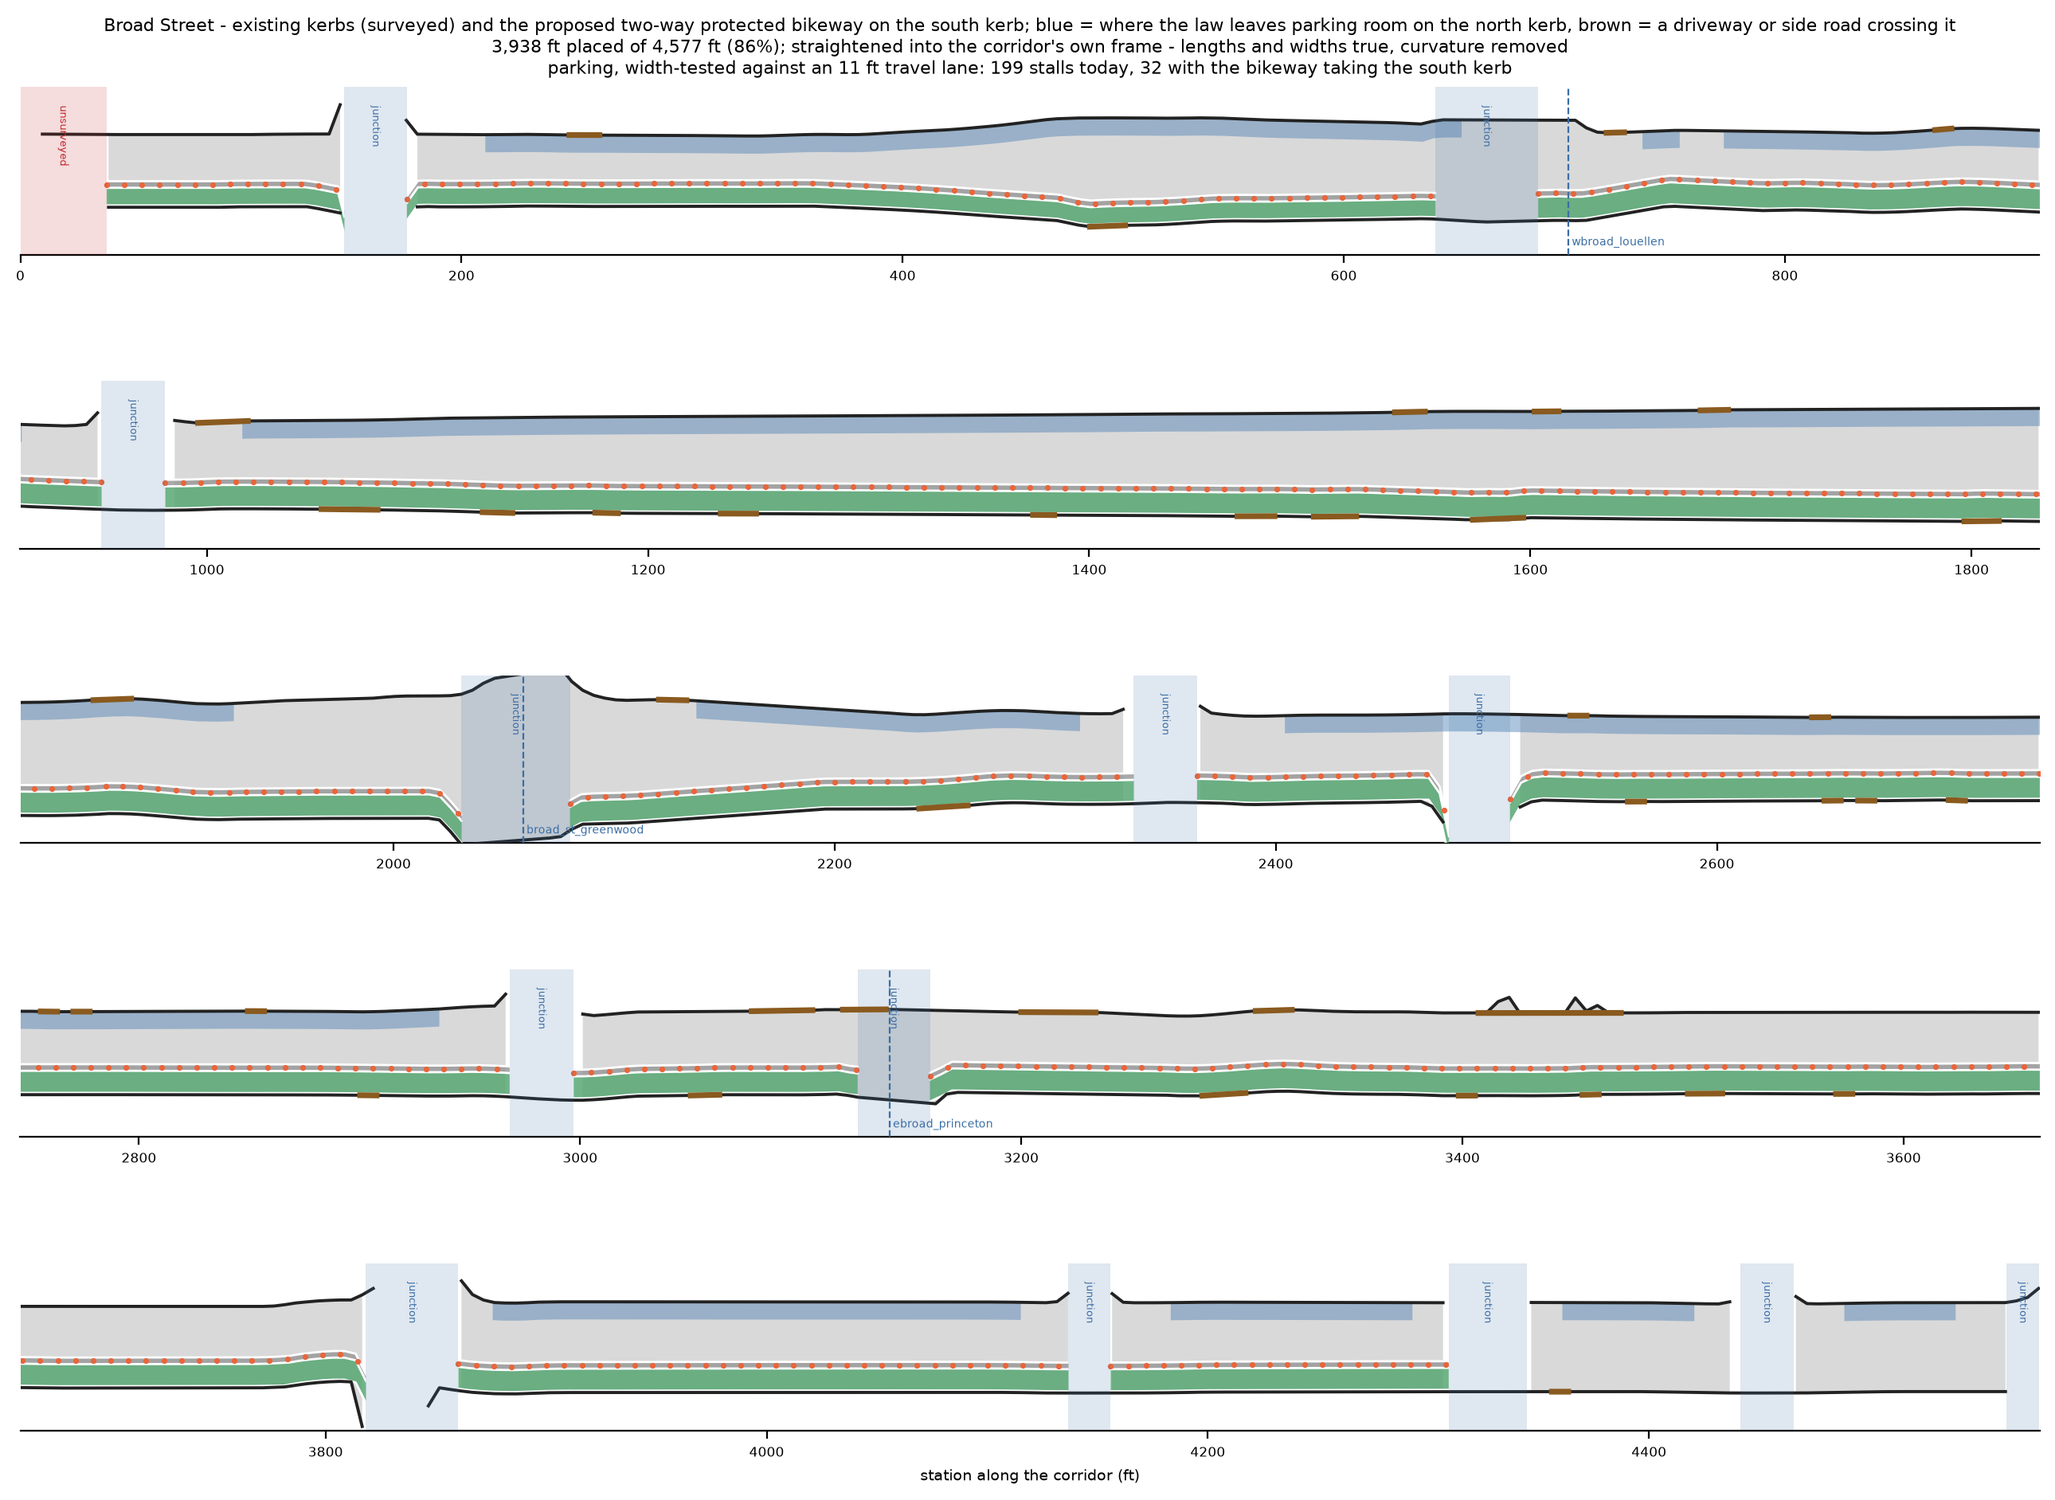
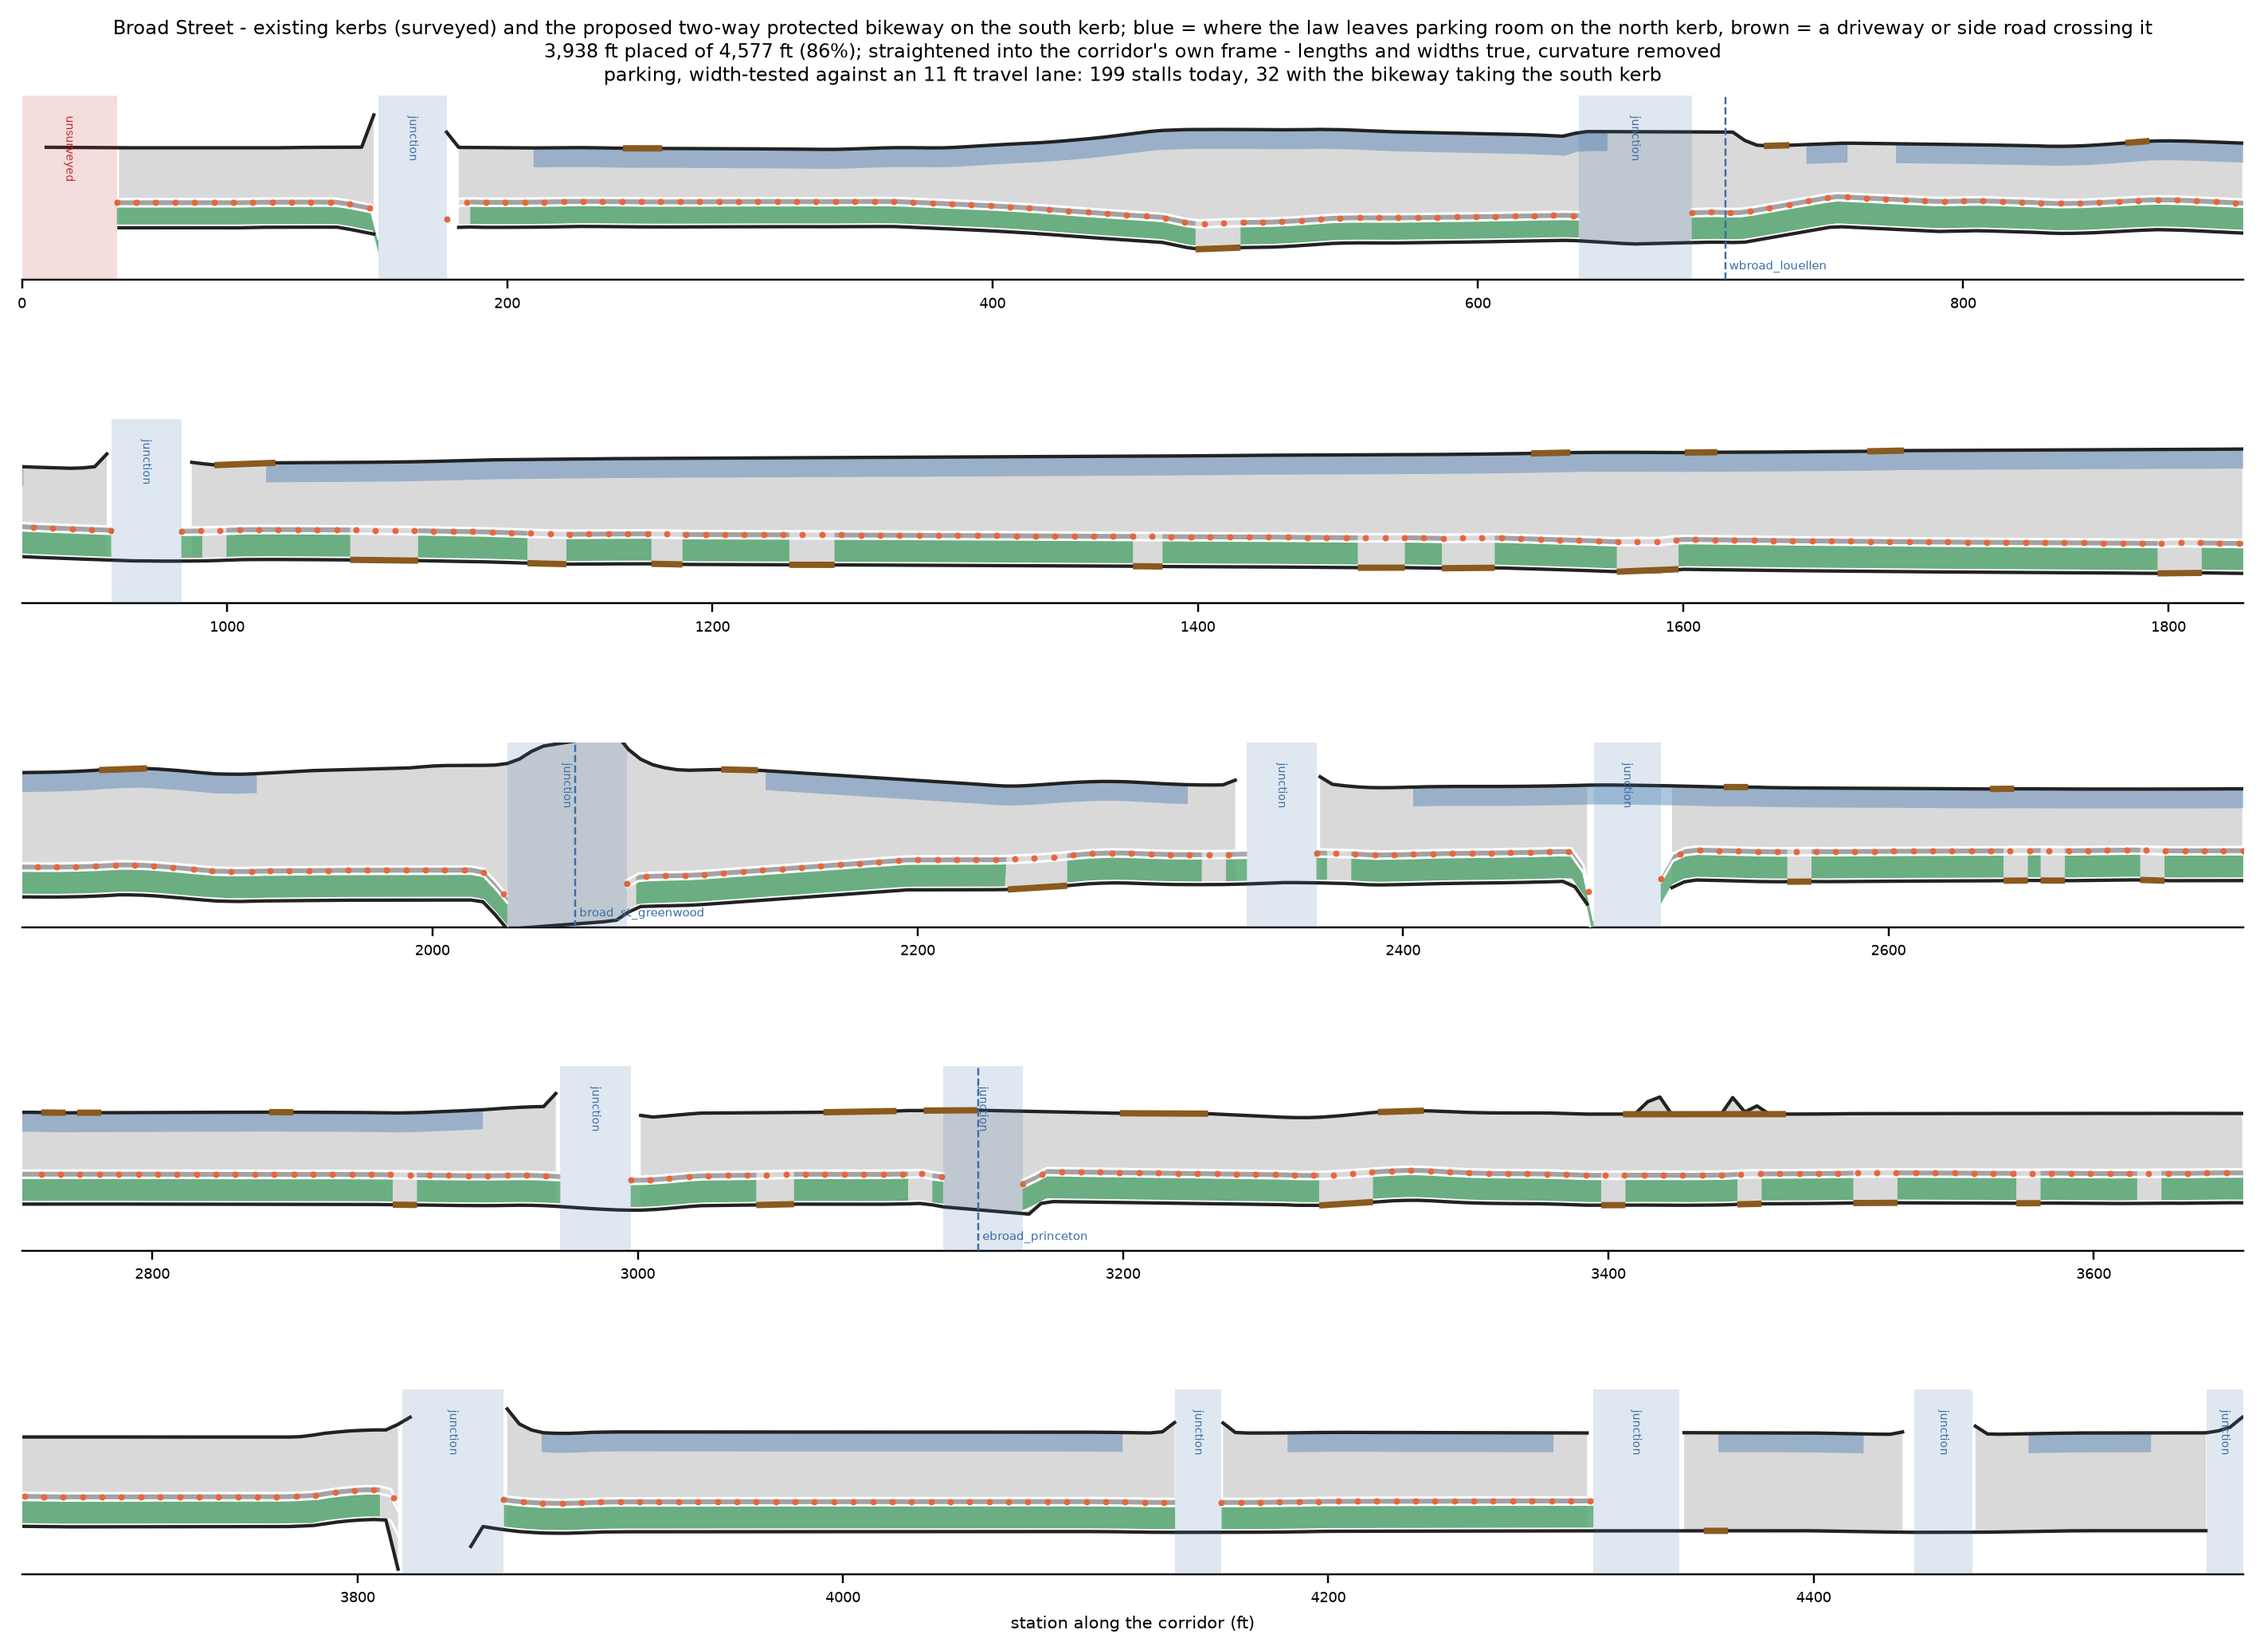
Break the corridor lane at every crossing and driveway mouth it meets
The green ran unbroken through nine surveyed crossings and every driveway on its own kerb - a
picture of a protected lane laid straight over ground where people walk and cars turn. 33 breaks
now, and they are two different findings with one consequence: a driveway mouth is where vehicles
cross the lane, so its markings go dotted over it, and a pedestrian crossing outranks whatever
runs along the kerb, so the lane is cut around it. Same rule the per-leg paint applies through
PaintContext's crossing bands, which a corridor cannot reach.

Openings are taken from the FACILITY'S OWN KERB only. A driveway on the north kerb does not touch
this lane, and counting it would break the facility at every mouth on the street rather than at
the ones a rider actually meets - which is the same asymmetry the openings are drawn with.

The cut turns the lane into a MultiPolygon, so `straighten` returns every part instead of the
first. Taking only the first would have shown the lane stopping at its first break and never
resuming, which is a worse drawing than the unbroken one it replaced.

CROSSING_BREAK_FT is an assumption and is labelled one. The corridor knows a crossing as a
station; its extent ALONG the street is the crosswalk's own width, and MUTCD 3C.02's 6 ft minimum
with 10 ft usual is what is taken. Reading it off each traced way needs the way's bearing and
belongs with surveyed.py.

diff --git a/src/geometry/corridor_paint.py b/src/geometry/corridor_paint.py
@@ -95,6 +95,8 @@ class CorridorFacilityPaint:
     runs: list = field(default_factory=list)
     refusals: list = field(default_factory=list)
     untraced: list = field(default_factory=list)
+    #: (lo, hi) where the lane's markings break - a driveway mouth on its own kerb, or a crossing.
+    breaks: tuple = ()
 
     @property
     def placed_ft(self) -> float:
@@ -179,7 +181,65 @@ def section_at(facility, near_half_ft: float, far_half_ft: float):
     return None, refusal
 
 
-def paint_facility(corridor, facility) -> CorridorFacilityPaint:
+#: How wide a surveyed crossing's break in the lane is taken to be, where the corridor knows the
+#: crossing only as a station. The marked crossings on Broad St are traced ways 38-77 ft long
+#: ACROSS the street; what is needed here is their extent ALONG it, which is the crosswalk's own
+#: width, and MUTCD 3C.02 puts a marked crosswalk at 6 ft minimum with 10 ft usual on a road like
+#: this. Taken as a constant and labelled an assumption, because reading it off each traced way
+#: needs the way's own bearing and that belongs with surveyed.py rather than here.
+CROSSING_BREAK_FT = 10.0
+
+
+def break_spans(corridor, facts, side: str) -> tuple:
+    """Where the facility's markings break: driveway mouths on its kerb, and every crossing.
+
+    TWO DIFFERENT REASONS AND ONE CONSEQUENCE. A driveway mouth is a place vehicles cross the
+    lane, so the lane's lines and its colour go dotted over it (markings.AT_AN_OPENING). A
+    pedestrian crossing outranks whatever runs along the kerb, so the lane is cut around it - the
+    same rule the per-leg paint applies through PaintContext's crossing bands, which is not
+    reachable from a corridor.
+
+    THE OPENINGS ARE TAKEN FROM THIS KERB ONLY. A driveway on the far kerb does not touch this
+    lane, and counting it would break the facility at every mouth on the street rather than at the
+    ones a rider actually meets.
+    """
+    spans = [(opening.start_ft, opening.end_ft)
+             for opening_side, opening in facts.openings if opening_side == side]
+    spans += [(station_ft - CROSSING_BREAK_FT / 2, station_ft + CROSSING_BREAK_FT / 2)
+              for station_ft, _markings in facts.marked_crossings]
+    return tuple(sorted((max(lo, 0.0), min(hi, corridor.length_ft))
+                        for lo, hi in spans if hi > 0 and lo < corridor.length_ft))
+
+
+def _cut_around(geometry, corridor, side: str, spans, reach_ft: float = 60.0):
+    """`geometry` with the break spans taken out of it.
+
+    Cut as full-depth bands across the kerbside rather than as station ranges of the polygon,
+    because the lane, its buffer and its edge lines all have to break at the SAME stations - a
+    drawing where the green stops and the stripe carries on is worse than one that breaks
+    neither.
+    """
+    from shapely.ops import unary_union
+
+    if geometry is None or geometry.is_empty or not spans:
+        return geometry
+    on = Alignment(corridor.centerline)
+    cutters = []
+    for lo, hi in spans:
+        if hi - lo <= 0:
+            continue
+        stations = np.linspace(lo, hi, max(int((hi - lo) / 2.0) + 2, 3))
+        band = band_from_offsets(on, side, stations, np.zeros(len(stations)),
+                                 np.full(len(stations), reach_ft))
+        if band is not None and not band.is_empty:
+            cutters.append(band)
+    if not cutters:
+        return geometry
+    cut = geometry.difference(unary_union(cutters))
+    return None if cut.is_empty else cut
+
+
+def paint_facility(corridor, facility, facts=None) -> CorridorFacilityPaint:
     """Place `facility` along `corridor`, wherever the street can carry it.
 
     Walks the stations at which BOTH kerbs are traced - the only stations at which a width is a
@@ -197,6 +257,7 @@ def paint_facility(corridor, facility) -> CorridorFacilityPaint:
     # worth calling a facility; it has nothing to say about whether a GAP is worth admitting to.
     paint.untraced = [(lo, hi, _why_no_kerb(corridor, lo, hi))
                       for lo, hi in corridor.untraced_gaps_ft(min_ft=0.0)]
+    paint.breaks = break_spans(corridor, facts, side) if facts is not None else ()
 
     for span_lo, span_hi in corridor.both_traced_spans():
         if span_hi - span_lo < MIN_FACILITY_RUN_FT:
@@ -242,7 +303,8 @@ def _collect(paint, corridor, facility, side, stations, near, far, fits):
                 lo, hi, refusal or "one or both kerbs untraced here", narrowest))
             continue
         paint.section_ft = section.section_ft
-        run, why = _build_run(corridor, side, section, stations[lo_i:hi_i + 1], block_near)
+        run, why = _build_run(corridor, side, section, stations[lo_i:hi_i + 1], block_near,
+                              paint.breaks)
         if run is None:
             paint.refusals.append(FacilityRefusal(lo, hi, why, narrowest))
         elif run.length_ft < MIN_FACILITY_RUN_FT:
@@ -266,7 +328,7 @@ def _blocks(flags: np.ndarray):
             for i in range(len(bounds) - 1)]
 
 
-def _build_run(corridor, side: str, section, stations, offs):
+def _build_run(corridor, side: str, section, stations, offs, breaks=()):
     """The paint itself, from the SAME section accounting the per-leg treatment uses.
 
     The lane hugs the kerb (TwoWayBikeLane.hugs_kerb), so its three boundaries are insets from the
@@ -291,8 +353,12 @@ def _build_run(corridor, side: str, section, stations, offs):
                       f"comes within {float(np.min(offs)):.1f} ft of it here, less than the "
                       f"{section.section_ft:.1f} ft the section needs on this side")
 
-    lane = band_from_offsets(on, side, stations, lane_inner, lane_outer)
-    buffer_zone = band_from_offsets(on, side, stations, travel_edge, lane_inner)
+    mine = tuple((lo, hi) for lo, hi in breaks
+                 if hi > float(stations[0]) and lo < float(stations[-1]))
+    lane = _cut_around(band_from_offsets(on, side, stations, lane_inner, lane_outer),
+                       corridor, side, mine)
+    buffer_zone = _cut_around(band_from_offsets(on, side, stations, travel_edge, lane_inner),
+                              corridor, side, mine)
     edges = [line_from_offsets(on, side, stations, off)
              for off in (lane_outer, lane_inner, travel_edge)]
     return FacilityRun(start_ft=float(stations[0]), end_ft=float(stations[-1]),

diff --git a/scripts/corridor_render.py b/scripts/corridor_render.py
@@ -62,13 +62,24 @@ def _intersect(a, b):
 
 
 def straighten(corridor, geometry):
-    """One geometry's coordinates as (station, offset) in the corridor's frame."""
+    """One geometry's parts, each as (station, offset) in the corridor's frame.
+
+    A LIST, because cutting the lane at every crossing and driveway mouth turns one polygon into
+    a MultiPolygon - which is the whole point of the cut, and a drawing that took only the first
+    part would show the lane stopping at its first break and never resuming.
+    """
     if geometry is None or geometry.is_empty:
-        return None
-    coords = (np.asarray(geometry.exterior.coords, dtype=float)
-              if geometry.geom_type == "Polygon" else np.asarray(geometry.coords, dtype=float))
-    stations, offsets = station_offset_many(corridor.centerline, coords)
-    return np.column_stack([stations, offsets])
+        return []
+    parts = list(getattr(geometry, "geoms", [geometry]))
+    out = []
+    for part in parts:
+        if part.is_empty:
+            continue
+        coords = (np.asarray(part.exterior.coords, dtype=float) if part.geom_type == "Polygon"
+                  else np.asarray(part.coords, dtype=float))
+        stations, offsets = station_offset_many(corridor.centerline, coords)
+        out.append(np.column_stack([stations, offsets]))
+    return out
 
 
 def draw_panel(ax, corridor, paint, parking, openings, lo_ft, hi_ft, half_ft):
@@ -89,8 +100,7 @@ def draw_panel(ax, corridor, paint, parking, openings, lo_ft, hi_ft, half_ft):
     for lo, hi, band in parking:
         if hi < lo_ft or lo > hi_ft:
             continue
-        xy = straighten(corridor, band)
-        if xy is not None:
+        for xy in straighten(corridor, band):
             ax.fill(xy[:, 0], xy[:, 1], color=PARKING_BLUE, alpha=0.45, linewidth=0, zorder=2)
 
     for run in paint.runs:
@@ -98,12 +108,10 @@ def draw_panel(ax, corridor, paint, parking, openings, lo_ft, hi_ft, half_ft):
             continue
         for geometry, colour, z in ((run.buffer_zone, BUFFER_GREY, 2),
                                     (run.lane_surface, LANE_GREEN, 3)):
-            xy = straighten(corridor, geometry)
-            if xy is not None:
+            for xy in straighten(corridor, geometry):
                 ax.fill(xy[:, 0], xy[:, 1], color=colour, alpha=0.85, linewidth=0, zorder=z)
         for line in run.edge_lines:
-            xy = straighten(corridor, line)
-            if xy is not None:
+            for xy in straighten(corridor, line):
                 ax.plot(xy[:, 0], xy[:, 1], color=PAINT_WHITE, lw=1.0, zorder=4)
         posts = np.asarray(run.bollards, dtype=float)
         if len(posts):
@@ -177,11 +185,12 @@ def main() -> int:
               f"{', '.join(sorted(c.name for c in corridors))}")
         return 2
     corridor = centred_on_its_kerbs(matching[0])
-    paint = paint_facility(corridor, BROAD_ST_TWO_WAY_BIKEWAY)
-    print(paint.summary(corridor.length_ft))
-
     with contextlib.redirect_stdout(quiet):
         facts = corridor_facts(corridor, models)
+    paint = paint_facility(corridor, BROAD_ST_TWO_WAY_BIKEWAY, facts=facts)
+    print(paint.summary(corridor.length_ft))
+    print(f"  the lane's markings break at {len(paint.breaks)} places - driveway mouths on its "
+          f"own kerb, and every surveyed crossing")
     far_side = "left" if paint.side == "right" else "right"
     far_compass = "north" if paint.compass_side == "south" else "south"
     parking = parking_bands(corridor, facts, far_side)
